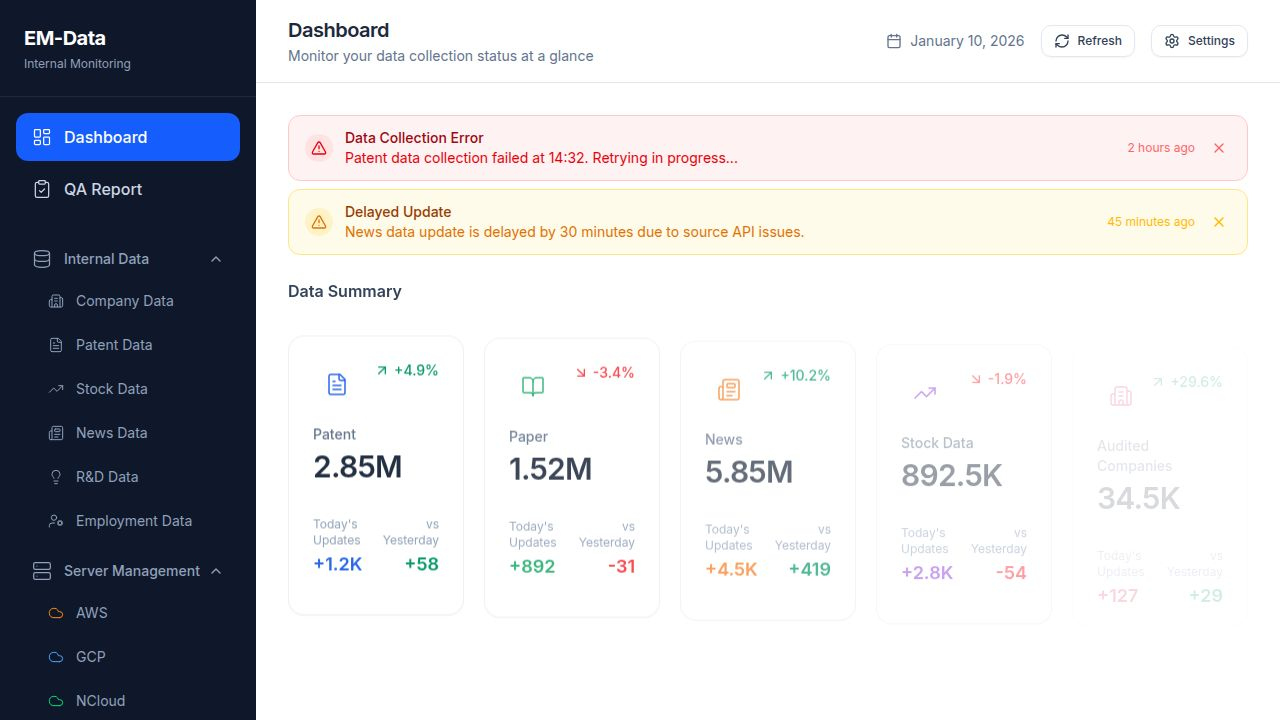
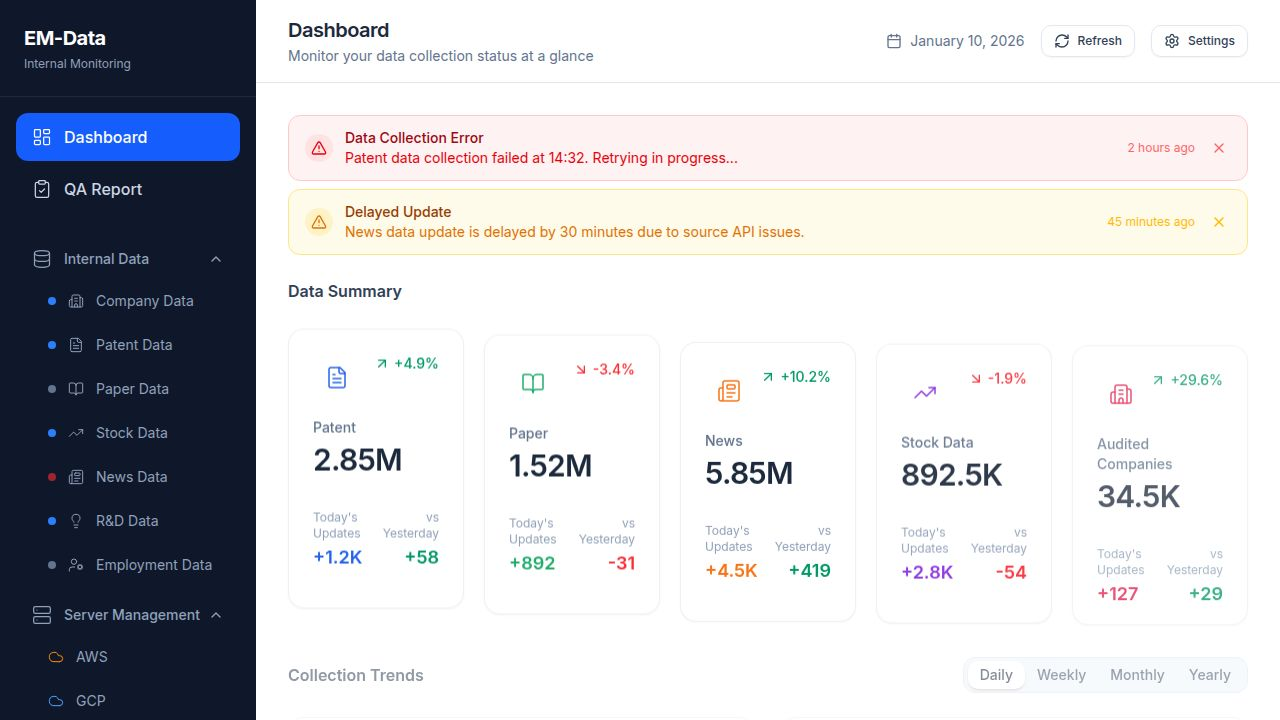
Fix issues with status indicators and data item definitions in sidebar navigation
Corrected logic for status indicators in sidebar navigation components by fixing the 'status' property definition for dataMenuItems in Dashboard.tsx and removing extraneous status references from settingsMenuItems. Also adjusted link styling and removed unused variables across multiple page components.

Replit-Commit-Author: Agent
Replit-Commit-Session-Id: 1679fd04-e349-4a3e-9293-9dddcef60cce
Replit-Commit-Checkpoint-Type: full_checkpoint
Replit-Commit-Event-Id: f382c76b-3312-4d33-a22e-04ce36933bcf
Replit-Commit-Screenshot-Url: https://storage.googleapis.com/screenshot-production-us-central1/8e96d2a4-76c1-459b-b578-cf86d63140d3/1679fd04-e349-4a3e-9293-9dddcef60cce/O91s4ZO
Replit-Helium-Checkpoint-Created: true

diff --git a/client/src/pages/Dashboard.tsx b/client/src/pages/Dashboard.tsx
@@ -362,42 +362,13 @@ const menuItems = [
 ];
 
 const dataMenuItems = [
-  {
-    id: "company-data",
-    name: "Company Data",
-    icon: Building2,
-    path: "/data/company",
-  },
-  {
-    id: "patent-data",
-    name: "Patent Data",
-    icon: FileText,
-    path: "/data/patent",
-  },
-  {
-    id: "stock-data",
-    name: "Stock Data",
-    icon: TrendingUp,
-    path: "/data/stock",
-  },
-  {
-    id: "news-data",
-    name: "News Data",
-    icon: Newspaper,
-    path: "/data/news",
-  },
-  {
-    id: "rnd-data",
-    name: "R&D Data",
-    icon: Lightbulb,
-    path: "/data/rnd",
-  },
-  {
-    id: "employment-data",
-    name: "Employment Data",
-    icon: UserCog,
-    path: "/data/employment",
-  },
+  { id: "company-data", name: "Company Data", icon: Building2, path: "/data/company", status: "normal" },
+  { id: "patent-data", name: "Patent Data", icon: FileText, path: "/data/patent", status: "normal" },
+  { id: "paper-data", name: "Paper Data", icon: BookOpen, path: "/data/paper", status: "stopped" },
+  { id: "stock-data", name: "Stock Data", icon: TrendingUp, path: "/data/stock", status: "normal" },
+  { id: "news-data", name: "News Data", icon: Newspaper, path: "/data/news", status: "error" },
+  { id: "rnd-data", name: "R&D Data", icon: Lightbulb, path: "/data/rnd", status: "normal" },
+  { id: "employment-data", name: "Employment Data", icon: UserCog, path: "/data/employment", status: "stopped" },
 ];
 
 const serverMenuItems = [
@@ -553,17 +524,11 @@ function Sidebar() {
           >
             {serverMenuItems.map((item) => {
               const Icon = item.icon;
-              const isActive = location === item.path;
-              const statusColor = item.status === "normal" ? "bg-blue-500" : item.status === "error" ? "bg-red-500" : "bg-slate-500";
               return (
                 <li key={item.id}>
                   <Link
                     href={item.path}
-                    className={`flex items-center gap-3 px-4 py-2.5 rounded-lg transition-all duration-200 ${
-                      isActive
-                        ? "bg-blue-600/20 text-blue-400"
-                        : "text-slate-400 hover:bg-slate-800 hover:text-white"
-                    }`}
+                    className="flex items-center gap-3 px-4 py-2.5 rounded-lg text-slate-400 hover:bg-slate-800 hover:text-white transition-all duration-200"
                     data-testid={`menu-${item.id}`}
                   >
                     <Icon className={`w-4 h-4 ${item.color}`} strokeWidth={1.5} />
@@ -598,20 +563,13 @@ function Sidebar() {
           >
             {settingsMenuItems.map((item) => {
               const Icon = item.icon;
-              const isActive = location === item.path;
-              const statusColor = item.status === "normal" ? "bg-blue-500" : item.status === "error" ? "bg-red-500" : "bg-slate-500";
               return (
                 <li key={item.id}>
                   <Link
                     href={item.path}
-                    className={`flex items-center gap-3 px-4 py-2.5 rounded-lg transition-all duration-200 ${
-                      isActive
-                        ? "bg-blue-600/20 text-blue-400"
-                        : "text-slate-400 hover:bg-slate-800 hover:text-white"
-                    }`}
+                    className="flex items-center gap-3 px-4 py-2.5 rounded-lg text-slate-400 hover:bg-slate-800 hover:text-white transition-all duration-200"
                     data-testid={`menu-${item.id}`}
                   >
-                    <span className={`w-2 h-2 rounded-full ${statusColor} ${item.status === "error" ? "animate-pulse" : ""}`} />
                     <Icon className="w-4 h-4" strokeWidth={1.5} />
                     <span className="text-sm">{item.name}</span>
                   </Link>

diff --git a/client/src/pages/AWSServers.tsx b/client/src/pages/AWSServers.tsx
@@ -124,7 +124,7 @@ function Sidebar() {
               const statusColor = item.status === "normal" ? "bg-blue-500" : item.status === "error" ? "bg-red-500" : "bg-slate-500";
               return (
                 <li key={item.id}>
-                  <Link href={item.path} className={`flex items-center gap-3 px-4 py-2.5 rounded-lg transition-all duration-200 ${isActive ? "bg-blue-600/20 text-blue-400" : "text-slate-400 hover:bg-slate-800 hover:text-white"}`}>
+                  <Link href={item.path} className="flex items-center gap-3 px-4 py-2.5 rounded-lg text-slate-400 hover:bg-slate-800 hover:text-white transition-all duration-200">
                     <span className={`w-2 h-2 rounded-full ${statusColor} ${item.status === "error" ? "animate-pulse" : ""}`} />
                     <Icon className="w-4 h-4" strokeWidth={1.5} />
                     <span className="text-sm">{item.name}</span>
@@ -146,11 +146,9 @@ function Sidebar() {
           <motion.ul initial={false} animate={{ height: serverMenuOpen ? "auto" : 0, opacity: serverMenuOpen ? 1 : 0 }} transition={{ duration: 0.2 }} className="overflow-hidden ml-4 space-y-1">
             {serverMenuItems.map((item) => {
               const Icon = item.icon;
-              const isActive = location === item.path;
-              const statusColor = item.status === "normal" ? "bg-blue-500" : item.status === "error" ? "bg-red-500" : "bg-slate-500";
               return (
                 <li key={item.id}>
-                  <Link href={item.path} className={`flex items-center gap-3 px-4 py-2.5 rounded-lg transition-all duration-200 ${isActive ? "bg-blue-600/20 text-blue-400" : "text-slate-400 hover:bg-slate-800 hover:text-white"}`}>
+                  <Link href={item.path} className="flex items-center gap-3 px-4 py-2.5 rounded-lg text-slate-400 hover:bg-slate-800 hover:text-white transition-all duration-200">
                     <Icon className={`w-4 h-4 ${item.color}`} strokeWidth={1.5} />
                     <span className="text-sm">{item.name}</span>
                   </Link>
@@ -174,7 +172,6 @@ function Sidebar() {
               return (
                 <li key={item.id}>
                   <Link href={item.path} className="flex items-center gap-3 px-4 py-2.5 rounded-lg text-slate-400 hover:bg-slate-800 hover:text-white transition-all duration-200">
-                    <span className={`w-2 h-2 rounded-full ${statusColor} ${item.status === "error" ? "animate-pulse" : ""}`} />
                     <Icon className="w-4 h-4" strokeWidth={1.5} />
                     <span className="text-sm">{item.name}</span>
                   </Link>

diff --git a/client/src/pages/GCPServers.tsx b/client/src/pages/GCPServers.tsx
@@ -111,7 +111,7 @@ function Sidebar() {
               const statusColor = item.status === "normal" ? "bg-blue-500" : item.status === "error" ? "bg-red-500" : "bg-slate-500";
               return (
                 <li key={item.id}>
-                  <Link href={item.path} className={`flex items-center gap-3 px-4 py-2.5 rounded-lg transition-all duration-200 ${isActive ? "bg-blue-600/20 text-blue-400" : "text-slate-400 hover:bg-slate-800 hover:text-white"}`}>
+                  <Link href={item.path} className="flex items-center gap-3 px-4 py-2.5 rounded-lg text-slate-400 hover:bg-slate-800 hover:text-white transition-all duration-200">
                     <span className={`w-2 h-2 rounded-full ${statusColor} ${item.status === "error" ? "animate-pulse" : ""}`} />
                     <Icon className="w-4 h-4" strokeWidth={1.5} />
                     <span className="text-sm">{item.name}</span>
@@ -133,11 +133,9 @@ function Sidebar() {
           <motion.ul initial={false} animate={{ height: serverMenuOpen ? "auto" : 0, opacity: serverMenuOpen ? 1 : 0 }} transition={{ duration: 0.2 }} className="overflow-hidden ml-4 space-y-1">
             {serverMenuItems.map((item) => {
               const Icon = item.icon;
-              const isActive = location === item.path;
-              const statusColor = item.status === "normal" ? "bg-blue-500" : item.status === "error" ? "bg-red-500" : "bg-slate-500";
               return (
                 <li key={item.id}>
-                  <Link href={item.path} className={`flex items-center gap-3 px-4 py-2.5 rounded-lg transition-all duration-200 ${isActive ? "bg-blue-600/20 text-blue-400" : "text-slate-400 hover:bg-slate-800 hover:text-white"}`}>
+                  <Link href={item.path} className="flex items-center gap-3 px-4 py-2.5 rounded-lg text-slate-400 hover:bg-slate-800 hover:text-white transition-all duration-200">
                     <Icon className={`w-4 h-4 ${item.color}`} strokeWidth={1.5} />
                     <span className="text-sm">{item.name}</span>
                   </Link>
@@ -161,7 +159,6 @@ function Sidebar() {
               return (
                 <li key={item.id}>
                   <Link href={item.path} className="flex items-center gap-3 px-4 py-2.5 rounded-lg text-slate-400 hover:bg-slate-800 hover:text-white transition-all duration-200">
-                    <span className={`w-2 h-2 rounded-full ${statusColor} ${item.status === "error" ? "animate-pulse" : ""}`} />
                     <Icon className="w-4 h-4" strokeWidth={1.5} />
                     <span className="text-sm">{item.name}</span>
                   </Link>

diff --git a/client/src/pages/NCloudServers.tsx b/client/src/pages/NCloudServers.tsx
@@ -112,7 +112,7 @@ function Sidebar() {
               const statusColor = item.status === "normal" ? "bg-blue-500" : item.status === "error" ? "bg-red-500" : "bg-slate-500";
               return (
                 <li key={item.id}>
-                  <Link href={item.path} className={`flex items-center gap-3 px-4 py-2.5 rounded-lg transition-all duration-200 ${isActive ? "bg-blue-600/20 text-blue-400" : "text-slate-400 hover:bg-slate-800 hover:text-white"}`}>
+                  <Link href={item.path} className="flex items-center gap-3 px-4 py-2.5 rounded-lg text-slate-400 hover:bg-slate-800 hover:text-white transition-all duration-200">
                     <span className={`w-2 h-2 rounded-full ${statusColor} ${item.status === "error" ? "animate-pulse" : ""}`} />
                     <Icon className="w-4 h-4" strokeWidth={1.5} />
                     <span className="text-sm">{item.name}</span>
@@ -134,11 +134,9 @@ function Sidebar() {
           <motion.ul initial={false} animate={{ height: serverMenuOpen ? "auto" : 0, opacity: serverMenuOpen ? 1 : 0 }} transition={{ duration: 0.2 }} className="overflow-hidden ml-4 space-y-1">
             {serverMenuItems.map((item) => {
               const Icon = item.icon;
-              const isActive = location === item.path;
-              const statusColor = item.status === "normal" ? "bg-blue-500" : item.status === "error" ? "bg-red-500" : "bg-slate-500";
               return (
                 <li key={item.id}>
-                  <Link href={item.path} className={`flex items-center gap-3 px-4 py-2.5 rounded-lg transition-all duration-200 ${isActive ? "bg-blue-600/20 text-blue-400" : "text-slate-400 hover:bg-slate-800 hover:text-white"}`}>
+                  <Link href={item.path} className="flex items-center gap-3 px-4 py-2.5 rounded-lg text-slate-400 hover:bg-slate-800 hover:text-white transition-all duration-200">
                     <Icon className={`w-4 h-4 ${item.color}`} strokeWidth={1.5} />
                     <span className="text-sm">{item.name}</span>
                   </Link>
@@ -162,7 +160,6 @@ function Sidebar() {
               return (
                 <li key={item.id}>
                   <Link href={item.path} className="flex items-center gap-3 px-4 py-2.5 rounded-lg text-slate-400 hover:bg-slate-800 hover:text-white transition-all duration-200">
-                    <span className={`w-2 h-2 rounded-full ${statusColor} ${item.status === "error" ? "animate-pulse" : ""}`} />
                     <Icon className="w-4 h-4" strokeWidth={1.5} />
                     <span className="text-sm">{item.name}</span>
                   </Link>

diff --git a/client/src/pages/NewsData.tsx b/client/src/pages/NewsData.tsx
@@ -114,7 +114,7 @@ function Sidebar() {
               const statusColor = item.status === "normal" ? "bg-blue-500" : item.status === "error" ? "bg-red-500" : "bg-slate-500";
               return (
                 <li key={item.id}>
-                  <Link href={item.path} className={`flex items-center gap-3 px-4 py-2.5 rounded-lg transition-all duration-200 ${isActive ? "bg-blue-600/20 text-blue-400" : "text-slate-400 hover:bg-slate-800 hover:text-white"}`}>
+                  <Link href={item.path} className="flex items-center gap-3 px-4 py-2.5 rounded-lg text-slate-400 hover:bg-slate-800 hover:text-white transition-all duration-200">
                     <span className={`w-2 h-2 rounded-full ${statusColor} ${item.status === "error" ? "animate-pulse" : ""}`} />
                     <Icon className="w-4 h-4" strokeWidth={1.5} />
                     <span className="text-sm">{item.name}</span>
@@ -136,11 +136,9 @@ function Sidebar() {
           <motion.ul initial={false} animate={{ height: serverMenuOpen ? "auto" : 0, opacity: serverMenuOpen ? 1 : 0 }} transition={{ duration: 0.2 }} className="overflow-hidden ml-4 space-y-1">
             {serverMenuItems.map((item) => {
               const Icon = item.icon;
-              const isActive = location === item.path;
-              const statusColor = item.status === "normal" ? "bg-blue-500" : item.status === "error" ? "bg-red-500" : "bg-slate-500";
               return (
                 <li key={item.id}>
-                  <Link href={item.path} className={`flex items-center gap-3 px-4 py-2.5 rounded-lg transition-all duration-200 ${isActive ? "bg-blue-600/20 text-blue-400" : "text-slate-400 hover:bg-slate-800 hover:text-white"}`}>
+                  <Link href={item.path} className="flex items-center gap-3 px-4 py-2.5 rounded-lg text-slate-400 hover:bg-slate-800 hover:text-white transition-all duration-200">
                     <Icon className={`w-4 h-4 ${item.color}`} strokeWidth={1.5} />
                     <span className="text-sm">{item.name}</span>
                   </Link>
@@ -164,7 +162,6 @@ function Sidebar() {
               return (
                 <li key={item.id}>
                   <Link href={item.path} className="flex items-center gap-3 px-4 py-2.5 rounded-lg text-slate-400 hover:bg-slate-800 hover:text-white transition-all duration-200">
-                    <span className={`w-2 h-2 rounded-full ${statusColor} ${item.status === "error" ? "animate-pulse" : ""}`} />
                     <Icon className="w-4 h-4" strokeWidth={1.5} />
                     <span className="text-sm">{item.name}</span>
                   </Link>

diff --git a/client/src/pages/StockData.tsx b/client/src/pages/StockData.tsx
@@ -115,7 +115,7 @@ function Sidebar() {
               const statusColor = item.status === "normal" ? "bg-blue-500" : item.status === "error" ? "bg-red-500" : "bg-slate-500";
               return (
                 <li key={item.id}>
-                  <Link href={item.path} className={`flex items-center gap-3 px-4 py-2.5 rounded-lg transition-all duration-200 ${isActive ? "bg-blue-600/20 text-blue-400" : "text-slate-400 hover:bg-slate-800 hover:text-white"}`}>
+                  <Link href={item.path} className="flex items-center gap-3 px-4 py-2.5 rounded-lg text-slate-400 hover:bg-slate-800 hover:text-white transition-all duration-200">
                     <span className={`w-2 h-2 rounded-full ${statusColor} ${item.status === "error" ? "animate-pulse" : ""}`} />
                     <Icon className="w-4 h-4" strokeWidth={1.5} />
                     <span className="text-sm">{item.name}</span>
@@ -137,11 +137,9 @@ function Sidebar() {
           <motion.ul initial={false} animate={{ height: serverMenuOpen ? "auto" : 0, opacity: serverMenuOpen ? 1 : 0 }} transition={{ duration: 0.2 }} className="overflow-hidden ml-4 space-y-1">
             {serverMenuItems.map((item) => {
               const Icon = item.icon;
-              const isActive = location === item.path;
-              const statusColor = item.status === "normal" ? "bg-blue-500" : item.status === "error" ? "bg-red-500" : "bg-slate-500";
               return (
                 <li key={item.id}>
-                  <Link href={item.path} className={`flex items-center gap-3 px-4 py-2.5 rounded-lg transition-all duration-200 ${isActive ? "bg-blue-600/20 text-blue-400" : "text-slate-400 hover:bg-slate-800 hover:text-white"}`}>
+                  <Link href={item.path} className="flex items-center gap-3 px-4 py-2.5 rounded-lg text-slate-400 hover:bg-slate-800 hover:text-white transition-all duration-200">
                     <Icon className={`w-4 h-4 ${item.color}`} strokeWidth={1.5} />
                     <span className="text-sm">{item.name}</span>
                   </Link>
@@ -165,7 +163,6 @@ function Sidebar() {
               return (
                 <li key={item.id}>
                   <Link href={item.path} className="flex items-center gap-3 px-4 py-2.5 rounded-lg text-slate-400 hover:bg-slate-800 hover:text-white transition-all duration-200">
-                    <span className={`w-2 h-2 rounded-full ${statusColor} ${item.status === "error" ? "animate-pulse" : ""}`} />
                     <Icon className="w-4 h-4" strokeWidth={1.5} />
                     <span className="text-sm">{item.name}</span>
                   </Link>

diff --git a/client/src/pages/Settings.tsx b/client/src/pages/Settings.tsx
@@ -115,7 +115,7 @@ function Sidebar() {
               const statusColor = item.status === "normal" ? "bg-blue-500" : item.status === "error" ? "bg-red-500" : "bg-slate-500";
               return (
                 <li key={item.id}>
-                  <Link href={item.path} className={`flex items-center gap-3 px-4 py-2.5 rounded-lg transition-all duration-200 ${isActive ? "bg-blue-600/20 text-blue-400" : "text-slate-400 hover:bg-slate-800 hover:text-white"}`}>
+                  <Link href={item.path} className="flex items-center gap-3 px-4 py-2.5 rounded-lg text-slate-400 hover:bg-slate-800 hover:text-white transition-all duration-200">
                     <span className={`w-2 h-2 rounded-full ${statusColor} ${item.status === "error" ? "animate-pulse" : ""}`} />
                     <Icon className="w-4 h-4" strokeWidth={1.5} />
                     <span className="text-sm">{item.name}</span>
@@ -137,11 +137,9 @@ function Sidebar() {
           <motion.ul initial={false} animate={{ height: serverMenuOpen ? "auto" : 0, opacity: serverMenuOpen ? 1 : 0 }} transition={{ duration: 0.2 }} className="overflow-hidden ml-4 space-y-1">
             {serverMenuItems.map((item) => {
               const Icon = item.icon;
-              const isActive = location === item.path;
-              const statusColor = item.status === "normal" ? "bg-blue-500" : item.status === "error" ? "bg-red-500" : "bg-slate-500";
               return (
                 <li key={item.id}>
-                  <Link href={item.path} className={`flex items-center gap-3 px-4 py-2.5 rounded-lg transition-all duration-200 ${isActive ? "bg-blue-600/20 text-blue-400" : "text-slate-400 hover:bg-slate-800 hover:text-white"}`}>
+                  <Link href={item.path} className="flex items-center gap-3 px-4 py-2.5 rounded-lg text-slate-400 hover:bg-slate-800 hover:text-white transition-all duration-200">
                     <Icon className={`w-4 h-4 ${item.color}`} strokeWidth={1.5} />
                     <span className="text-sm">{item.name}</span>
                   </Link>

diff --git a/client/src/pages/CompanyData.tsx b/client/src/pages/CompanyData.tsx
@@ -161,7 +161,6 @@ function Sidebar() {
               return (
                 <li key={item.id}>
                   <Link href={item.path} className={`flex items-center gap-3 px-4 py-2.5 rounded-lg transition-all duration-200 ${isActive ? "bg-blue-600/20 text-blue-400" : "text-slate-400 hover:bg-slate-800 hover:text-white"}`} data-testid={`menu-${item.id}`}>
-                    <span className={`w-2 h-2 rounded-full ${statusColor} ${item.status === "error" ? "animate-pulse" : ""}`} />
                     <Icon className="w-4 h-4" strokeWidth={1.5} />
                     <span className="text-sm">{item.name}</span>
                   </Link>
@@ -182,11 +181,9 @@ function Sidebar() {
           <motion.ul initial={false} animate={{ height: serverMenuOpen ? "auto" : 0, opacity: serverMenuOpen ? 1 : 0 }} transition={{ duration: 0.2 }} className="overflow-hidden ml-4 space-y-1">
             {serverMenuItems.map((item) => {
               const Icon = item.icon;
-              const isActive = location === item.path;
-              const statusColor = item.status === "normal" ? "bg-blue-500" : item.status === "error" ? "bg-red-500" : "bg-slate-500";
               return (
                 <li key={item.id}>
-                  <Link href={item.path} className={`flex items-center gap-3 px-4 py-2.5 rounded-lg transition-all duration-200 ${isActive ? "bg-blue-600/20 text-blue-400" : "text-slate-400 hover:bg-slate-800 hover:text-white"}`} data-testid={`menu-${item.id}`}>
+                  <Link href={item.path} className="flex items-center gap-3 px-4 py-2.5 rounded-lg text-slate-400 hover:bg-slate-800 hover:text-white transition-all duration-200" data-testid={`menu-${item.id}`}>
                     <Icon className={`w-4 h-4 ${item.color}`} strokeWidth={1.5} />
                     <span className="text-sm">{item.name}</span>
                   </Link>

diff --git a/client/src/pages/PatentData.tsx b/client/src/pages/PatentData.tsx
@@ -147,11 +147,9 @@ function Sidebar() {
           <motion.ul initial={false} animate={{ height: serverMenuOpen ? "auto" : 0, opacity: serverMenuOpen ? 1 : 0 }} transition={{ duration: 0.2 }} className="overflow-hidden ml-4 space-y-1">
             {serverMenuItems.map((item) => {
               const Icon = item.icon;
-              const isActive = location === item.path;
-              const statusColor = item.status === "normal" ? "bg-blue-500" : item.status === "error" ? "bg-red-500" : "bg-slate-500";
               return (
                 <li key={item.id}>
-                  <Link href={item.path} className={`flex items-center gap-3 px-4 py-2.5 rounded-lg transition-all duration-200 ${isActive ? "bg-blue-600/20 text-blue-400" : "text-slate-400 hover:bg-slate-800 hover:text-white"}`}>
+                  <Link href={item.path} className="flex items-center gap-3 px-4 py-2.5 rounded-lg text-slate-400 hover:bg-slate-800 hover:text-white transition-all duration-200">
                     <Icon className={`w-4 h-4 ${item.color}`} strokeWidth={1.5} />
                     <span className="text-sm">{item.name}</span>
                   </Link>
@@ -175,7 +173,6 @@ function Sidebar() {
               return (
                 <li key={item.id}>
                   <Link href={item.path} className="flex items-center gap-3 px-4 py-2.5 rounded-lg text-slate-400 hover:bg-slate-800 hover:text-white transition-all duration-200">
-                    <span className={`w-2 h-2 rounded-full ${statusColor} ${item.status === "error" ? "animate-pulse" : ""}`} />
                     <Icon className="w-4 h-4" strokeWidth={1.5} />
                     <span className="text-sm">{item.name}</span>
                   </Link>

diff --git a/client/src/pages/AddTestProcedure.tsx b/client/src/pages/AddTestProcedure.tsx
@@ -134,7 +134,7 @@ function Sidebar() {
               const statusColor = item.status === "normal" ? "bg-blue-500" : item.status === "error" ? "bg-red-500" : "bg-slate-500";
               return (
                 <li key={item.id}>
-                  <Link href={item.path} className={`flex items-center gap-3 px-4 py-2.5 rounded-lg transition-all duration-200 ${isActive ? "bg-blue-600/20 text-blue-400" : "text-slate-400 hover:bg-slate-800 hover:text-white"}`}>
+                  <Link href={item.path} className="flex items-center gap-3 px-4 py-2.5 rounded-lg text-slate-400 hover:bg-slate-800 hover:text-white transition-all duration-200">
                     <span className={`w-2 h-2 rounded-full ${statusColor} ${item.status === "error" ? "animate-pulse" : ""}`} />
                     <Icon className="w-4 h-4" strokeWidth={1.5} />
                     <span className="text-sm">{item.name}</span>
@@ -182,7 +182,6 @@ function Sidebar() {
               return (
                 <li key={item.id}>
                   <Link href={item.path} className="flex items-center gap-3 px-4 py-2.5 rounded-lg text-slate-400 hover:bg-slate-800 hover:text-white transition-all duration-200">
-                    <span className={`w-2 h-2 rounded-full ${statusColor} ${item.status === "error" ? "animate-pulse" : ""}`} />
                     <Icon className="w-4 h-4" strokeWidth={1.5} />
                     <span className="text-sm">{item.name}</span>
                   </Link>

diff --git a/client/src/pages/EmploymentData.tsx b/client/src/pages/EmploymentData.tsx
@@ -125,7 +125,7 @@ function Sidebar() {
               const statusColor = item.status === "normal" ? "bg-blue-500" : item.status === "error" ? "bg-red-500" : "bg-slate-500";
               return (
                 <li key={item.id}>
-                  <Link href={item.path} className={`flex items-center gap-3 px-4 py-2.5 rounded-lg transition-all duration-200 ${isActive ? "bg-blue-600/20 text-blue-400" : "text-slate-400 hover:bg-slate-800 hover:text-white"}`}>
+                  <Link href={item.path} className="flex items-center gap-3 px-4 py-2.5 rounded-lg text-slate-400 hover:bg-slate-800 hover:text-white transition-all duration-200">
                     <span className={`w-2 h-2 rounded-full ${statusColor} ${item.status === "error" ? "animate-pulse" : ""}`} />
                     <Icon className="w-4 h-4" strokeWidth={1.5} />
                     <span className="text-sm">{item.name}</span>
@@ -173,7 +173,6 @@ function Sidebar() {
               return (
                 <li key={item.id}>
                   <Link href={item.path} className="flex items-center gap-3 px-4 py-2.5 rounded-lg text-slate-400 hover:bg-slate-800 hover:text-white transition-all duration-200">
-                    <span className={`w-2 h-2 rounded-full ${statusColor} ${item.status === "error" ? "animate-pulse" : ""}`} />
                     <Icon className="w-4 h-4" strokeWidth={1.5} />
                     <span className="text-sm">{item.name}</span>
                   </Link>

diff --git a/client/src/pages/PaperData.tsx b/client/src/pages/PaperData.tsx
@@ -120,7 +120,7 @@ function Sidebar() {
               const statusColor = item.status === "normal" ? "bg-blue-500" : item.status === "error" ? "bg-red-500" : "bg-slate-500";
               return (
                 <li key={item.id}>
-                  <Link href={item.path} className={`flex items-center gap-3 px-4 py-2.5 rounded-lg transition-all duration-200 ${isActive ? "bg-blue-600/20 text-blue-400" : "text-slate-400 hover:bg-slate-800 hover:text-white"}`}>
+                  <Link href={item.path} className="flex items-center gap-3 px-4 py-2.5 rounded-lg text-slate-400 hover:bg-slate-800 hover:text-white transition-all duration-200">
                     <span className={`w-2 h-2 rounded-full ${statusColor} ${item.status === "error" ? "animate-pulse" : ""}`} />
                     <Icon className="w-4 h-4" strokeWidth={1.5} />
                     <span className="text-sm">{item.name}</span>
@@ -168,7 +168,6 @@ function Sidebar() {
               return (
                 <li key={item.id}>
                   <Link href={item.path} className="flex items-center gap-3 px-4 py-2.5 rounded-lg text-slate-400 hover:bg-slate-800 hover:text-white transition-all duration-200">
-                    <span className={`w-2 h-2 rounded-full ${statusColor} ${item.status === "error" ? "animate-pulse" : ""}`} />
                     <Icon className="w-4 h-4" strokeWidth={1.5} />
                     <span className="text-sm">{item.name}</span>
                   </Link>
